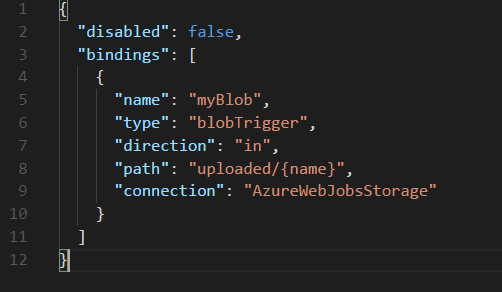
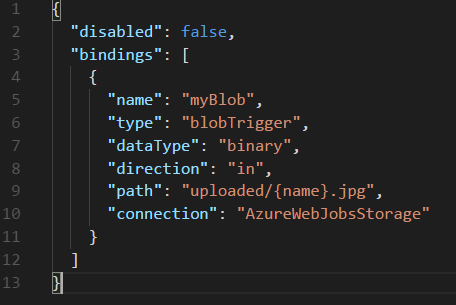
part 5 update

diff --git a/README.md b/README.md
@@ -1,5 +1,6 @@
 # Azure Functions
 ![functions](./images/functions.jpg)
+
 Azure Functions란 마이크로소프트에서 제공하는 서버리스 서비스 입니다. 서버리스 서비스라는 말을 요즘 많이 들어보셨을텐데요, 문자그대로 해석하면 서버가 없다? 당연히 서버는 존재하죠! 하지만 클라우드 서비스에서 이 또한 관리해주고 추상화하여 제공하기 때문에 이를 사용하는 사용자 입장에서는 정말 나의 코드조각만 신경쓰면 됩니다. 이를 잘 표현하기 위해 이름에 Function이란 단어가 포함되었네요! 
 
 유사한 다른 벤더사의 제품으로는 AWS Lambda를 들 수 있습니다. 서버리스 서비스가 주목을 받고 있는 이유는 이를 이용하여 개발시 여러가지 장점을 가저다 주기 때문인데요, 그 중 하나가 확장성입니다. 이벤트 기반으로 동작하는 서비스에 Azure Function이 적합해요. 또한 과금 정책도 매우 합리적이랍니다! 딱 내 Function이 수행되는 만큼만 돈을 지불하면 되거든요! 매우 합리적이죠?
@@ -168,7 +169,7 @@ func host start
    ![028](./images/028.PNG)
 
 9. **Part 2**에서 만든 함수와 동일하게 동작하도록 하기 위해 몇 가지 값을 바꾸어 주어야한다. Visual Studio Code에서 **function.json** 파일을 열고 **path**와 **connection**에 다음의 값을 입력한다. 
-* path: **"uploaded/{name}"**
+* path: **"uploaded/{name}.jpg"**
 * connection: **"AzureWebJobsStorage"**
 
    ![030](./images/030.PNG)
@@ -182,7 +183,7 @@ func host start
    ![031](./images/031.PNG)
    ![032](./images/032.PNG)
 
-### Part 4. Cognitive Service를 이용하여 업로드한 이미지 분석기능 추가하기
+### Part 4. Cognitive Service를 이용하여 업로드한 이미지를 분석하는 기능 추가하기
 지금까지는 Blob Storage에 이미지 파일이 업로드 되면 동작하는 Azure Functions를 Azure Portal과 Local에서 각각 만들어 보았다. 이제 [Cognitive Serivce의 Computer Vision 서비스](https://docs.microsoft.com/ko-kr/azure/cognitive-services/computer-vision/home)를 이용하여 이미지 분석기능을 추가해 보도록 하겠다. 
 
 1. Azure Portal의 홈 화면으로 이동한 후 **새로만들기** -> **AI + CognitiveServices** -> **Computuer Vision API**를 차례대로 클릭한다. 
@@ -244,25 +245,6 @@ function analyzeAndProcessImage(context, options) {
 ```
 이미지가 업로드 되면 Computer Vision API를 입력하여 사진과 관련된 정보를 출력하는 기능을 한다. 
 
-6. 입력한 코드를 실행하기 위해 추가로 입력해주어야 하는 값이 있다. **function.json**을 열고 **"dataType": "binary",**값을 다음과 같이 추가한다. 
-
-   ![037](./images/037.PNG)
-
-7. **local.settings.json** 파일을 열고 Values에 **SubscriptionKey, VisionEndpoint**를 다음과 같이 추가한다. SubscrptionKey 값은 Azure Portal에서 FunctionsLabRG 리소스 그룹의 VisionAPI에서 확인할 수 있다. 
-
-    * "SubscriptionKey": <VisionAPI - Keys에서 값 확인 가능>,
-    * "VisionEndpoint": "https://eastasia.api.cognitive.microsoft.com/vision/v1.0"
-
-    ![038](./images/038.PNG)
-    ![040](./images/040.PNG)
-    ![039](./images/039.PNG)
-
-8. 터미널에서 func host start 명령어를 통해 함수를 실행하고, Azure Storage Explorer에서 uploaded 컨테이너에 사진을 업로드하여 잘 동작하는지 확인한다. 
-
-    ![042](./images/042.PNG)
-    ![041](./images/041.PNG)
-
-9. 
 
 5. 터미널을 열고 functionslab 디렉토리에서 **npm init** 명령어를 입력한 후, 계속 엔터를 입력하여 package.json 파일을 생성한다.   
 ```
@@ -279,6 +261,142 @@ npm install --save azure-storage
 ```
    ![036](./images/036.PNG)
 
+
+7. 입력한 코드를 실행하기 위해 추가로 입력해주어야 하는 값이 있다. **function.json**을 열고 **"dataType": "binary",**값을 다음과 같이 추가한다. 
+
+   ![037](./images/037.PNG)
+
+8. **local.settings.json** 파일을 열고 Values에 **SubscriptionKey, VisionEndpoint**를 다음과 같이 추가한다. SubscrptionKey 값은 Azure Portal에서 FunctionsLabRG 리소스 그룹의 VisionAPI에서 확인할 수 있다. 
+
+    * "SubscriptionKey": <VisionAPI - Keys에서 값 확인 가능>,
+    * "VisionEndpoint": "https://eastasia.api.cognitive.microsoft.com/vision/v1.0"
+
+    ![038](./images/038.PNG)
+    ![040](./images/040.PNG)
+    ![039](./images/039.PNG)
+
+9. 터미널에서 func host start 명령어를 통해 함수를 실행하고, Azure Storage Explorer에서 uploaded 컨테이너에 사진을 업로드하여 잘 동작하는지 확인한다. 
+
+    ![042](./images/042.PNG)
+    ![041](./images/041.PNG)
+
+### Part 5. 부적절한 이미지를 Blob Storag의 별도의 컨테이너에 저장하는 기능 추가하기
+
+1. Visual Studio Code에서 **index.js** 파일을 열고 31번째 줄 즈음에 다음의 코드를 추가한다.
+
+```
+var fileName = context.bindingData.name
+var targetContainer = ((response.adult.isRacyContent) ? 'rejected' : 'accepted')
+var blobService = azure.createBlobService(process.env.AzureWebJobsStorage)
+
+blobService.startCopyBlob(getStoragePath('uploaded', fileName), targetContainer, fileName, function (error, s, r) {
+if (error) context.log(error)
+context.log(fileName + ' created in ' + targetContainer + '.')
+
+blobService.setBlobMetadata(targetContainer, fileName,
+    {
+    'isAdultContent': response.adult.isAdultContent,
+    'adultScore': (response.adult.adultScore * 100).toFixed(0) + '%',
+    'isRacyContent': response.adult.isRacyContent,
+    'racyScore': (response.adult.racyScore * 100).toFixed(0) + '%'
+    },
+
+    function (error, s, r) {
+        if (error) context.log(error)
+        context.log(fileName + ' metadata added successfully.')
+    })
+})
+```
+isRacyContent 값이 True이면 rejected 컨테이너에 그렇지 않은 경우는 accepted 컨테이너에 이미지가 저장된다. 이미지 저장시 관련 메타정보도 함께 저장한다. 
+
+2. **index.js** 파일을 열고 57번째 줄 즈음에 다음의 코드를 추가한다.
+```
+function getStoragePath (container, fileName) {
+    var storageConnection = (process.env.AzureWebJobsStorage).split(';')
+    var accountName = storageConnection[1].split('=')[1]
+    return 'https://' + accountName + '.blob.core.windows.net/' + container + '/' + fileName + '.jpg'
+};
+```
+저장해야 할 Storage의 경로를 알아내기 위한 함수이다. 
+
+최종 index.js 코드는 다음과 같다. 
+```
+var request = require('request-promise')
+var azure = require('azure-storage')
+
+module.exports = function (context, myBlob) {
+  context.log("Analyzing uploaded image '" + context.bindingData.name + "' for adult content...")
+  var options = getAnalysisOptions(myBlob, process.env.SubscriptionKey, process.env.VisionEndpoint)
+  analyzeAndProcessImage(context, options)
+
+  function getAnalysisOptions (image, subscriptionKey, endpoint) {
+    return {
+      uri: endpoint + '/analyze?visualFeatures=Adult',
+      method: 'POST',
+      body: image,
+      headers: {
+        'Content-Type': 'application/octet-stream',
+        'Ocp-Apim-Subscription-Key': subscriptionKey
+      }
+    }
+  };
+
+  function analyzeAndProcessImage (context, options) {
+    request(options)
+    .then((response) => {
+      response = JSON.parse(response)
+
+      context.log('Is Adult: ', response.adult.isAdultContent)
+      context.log('Adult Score: ', response.adult.adultScore)
+      context.log('Is Racy: ' + response.adult.isRacyContent)
+      context.log('Racy Score: ' + response.adult.racyScore)
+
+      var fileName = context.bindingData.name
+      var targetContainer = ((response.adult.isRacyContent) ? 'rejected' : 'accepted')
+      var blobService = azure.createBlobService(process.env.AzureWebJobsStorage)
+
+      blobService.startCopyBlob(getStoragePath('uploaded', fileName), targetContainer, fileName, function (error, s, r) {
+        if (error) context.log(error)
+        context.log(fileName + ' created in ' + targetContainer + '.')
+
+        blobService.setBlobMetadata(targetContainer, fileName,
+          {
+            'isAdultContent': response.adult.isAdultContent,
+            'adultScore': (response.adult.adultScore * 100).toFixed(0) + '%',
+            'isRacyContent': response.adult.isRacyContent,
+            'racyScore': (response.adult.racyScore * 100).toFixed(0) + '%'
+          },
+
+            function (error, s, r) {
+              if (error) context.log(error)
+              context.log(fileName + ' metadata added successfully.')
+            })
+      })
+    })
+    .catch((error) => context.log(error))
+    .finally(() => context.done())
+  };
+
+  function getStoragePath (container, fileName) {
+    var storageConnection = (process.env.AzureWebJobsStorage).split(';')
+    var accountName = storageConnection[1].split('=')[1]
+    return 'https://' + accountName + '.blob.core.windows.net/' + container + '/' + fileName + '.jpg'
+  };
+}
+```
+
+3. Azure Storage Explorer를 열고 uploaded 컨테이너가 포함된 동일한 Blob Container 아래에 **accepted, rejected** 두개의 컨테이너를 위에서 했던 방식과 동일하게 추가한다. 
+
+    ![043](./images/043.PNG)
+
+4. 터미널에서 **func host start** 명령어로 함수를 실행시킨 상태에서 **uploaded** 컨테이너에 **.jpg**확장자로 끝나는 이미지 사진을 업로드하면 함수가 수행되는 것을 확인할 수 있다. 
+
+    ![044](./images/044.PNG)
+    ![045](./images/045.PNG)
+    ![046](./images/046.PNG)
+    ![047](./images/047.PNG)
+
+### Part 6. Azure에 로컬에서 개발한 function 업로드하기 
 
 
 1. Kudu 접속
